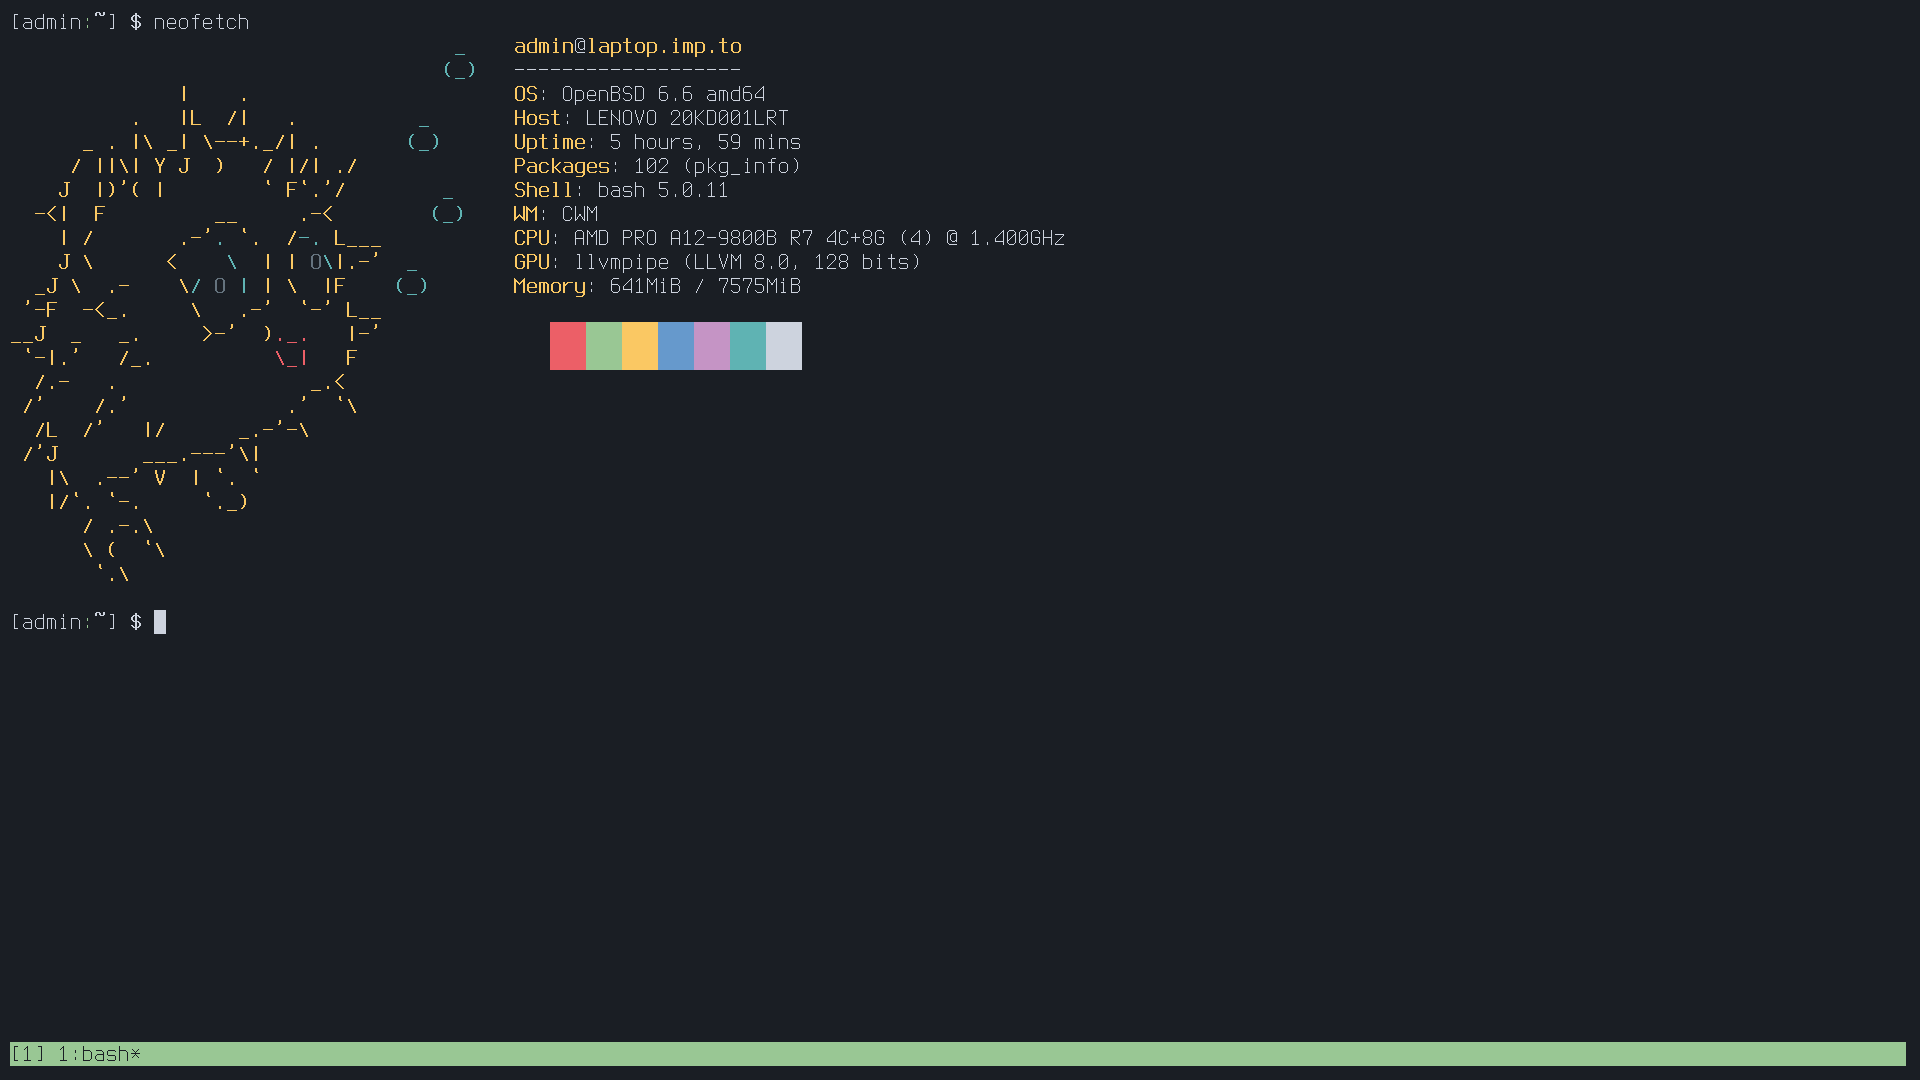
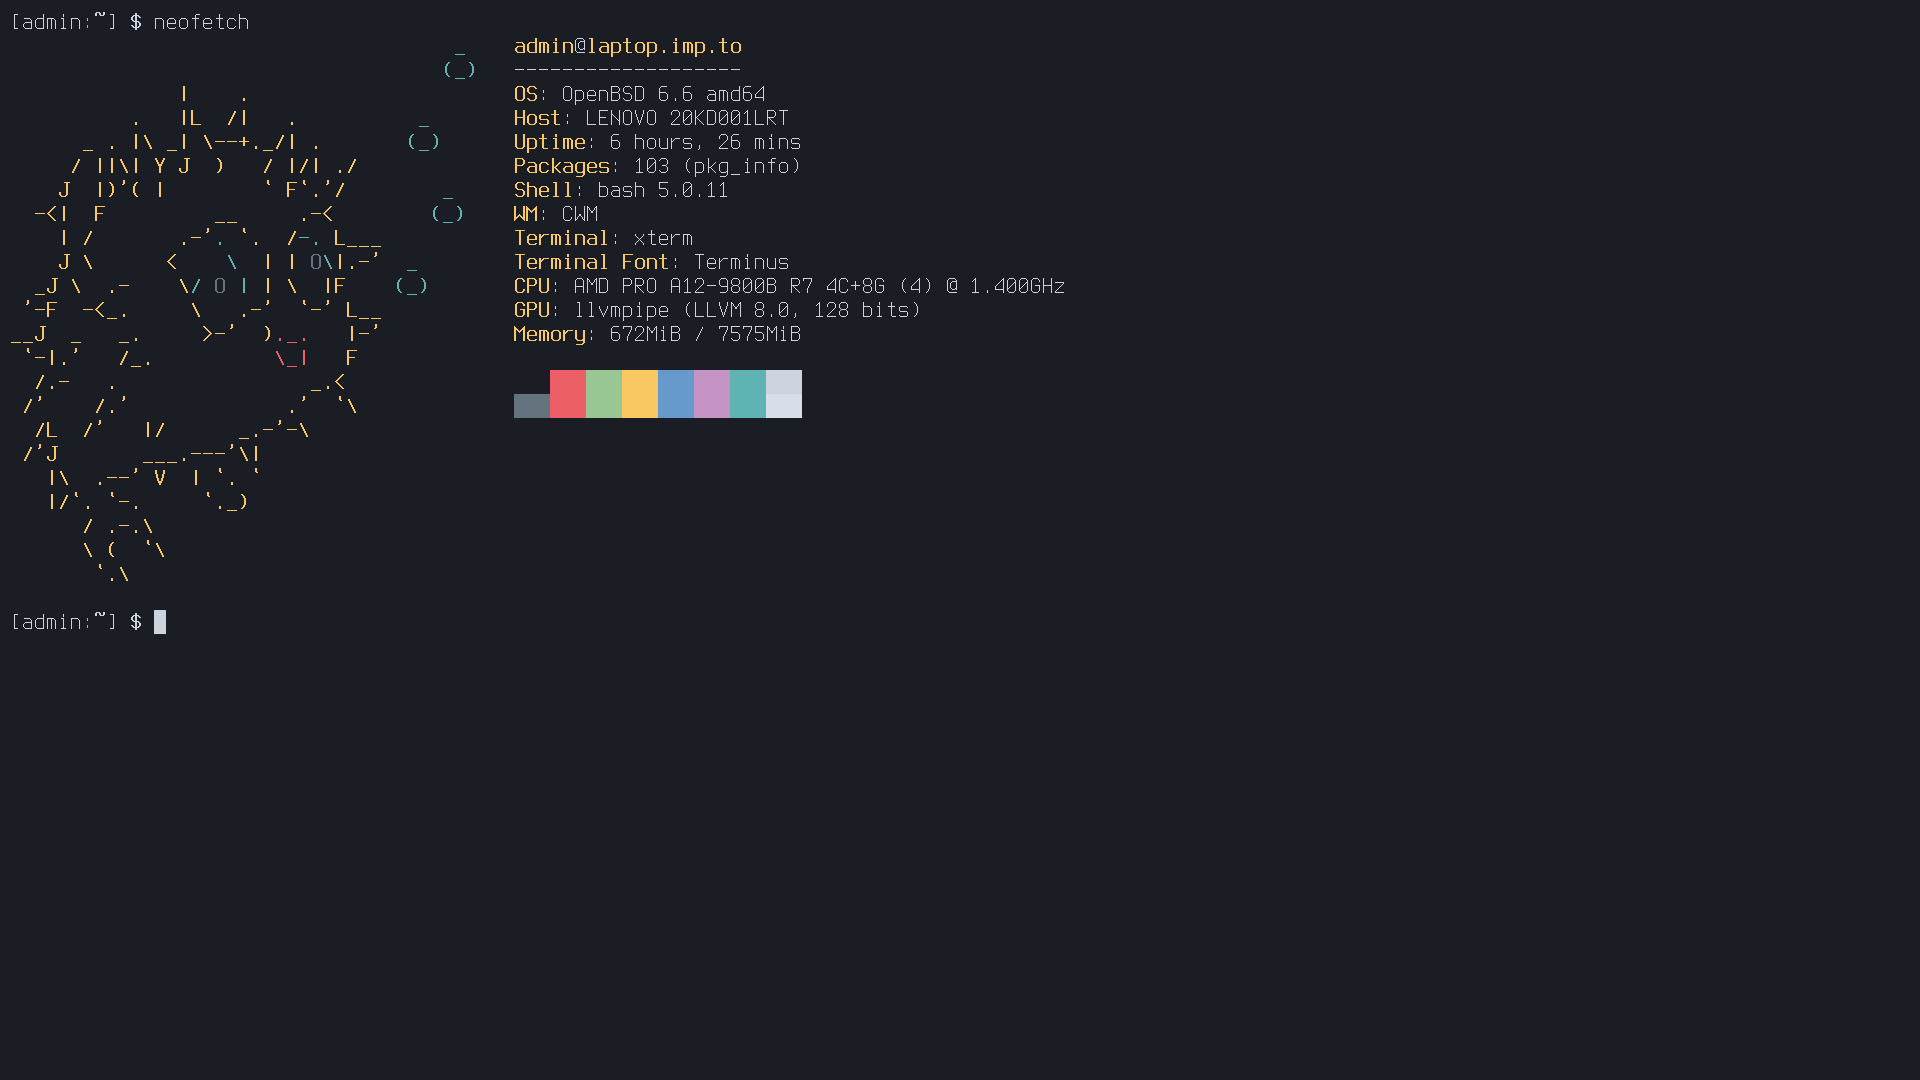
updated with OpenBSD configs

Changed region(s): [[0.0, 0.9472, 1.0, 1.0], [0.25, 0.2139, 0.4375, 0.3972]]

diff --git a/README.md b/README.md
@@ -3,33 +3,35 @@
 ```shell
 $ tree .
 .
-├── bootstrap.sh
-├── dmenu
-│   └── config.h
-├── dwm
-│   ├── config.h
-│   └── dwm-noborder-6.2.diff
-├── fzf.install.sh
-├── liquidprompt.install.sh
-├── opam.init.sh
-├── README.md
-├── ssh
-│   └── config
-├── st
-│   ├── config.h
-│   ├── st-anysize-0.8.1.diff
-│   ├── st-boxdraw_v2-0.8.2.diff
-│   ├── st-clipboard-0.8.2.diff
-│   ├── st-font2-20190416-ba72400.diff
-│   └── st-xresources-20190105-3be4cf1.diff
-├── sublime.apt.install.sh
-├── sublime.conf
-├── thinkpad_A275.png
-├── tmux.conf
-├── xinitrc
-├── Xresources
-└── zshrc
+|-- README.md
+|-- Xresources
+|-- bootstrap_bsd.sh
+|-- bootstrap_suse.sh
+|-- cwmrc
+|-- dmenu
+|   `-- config.h
+|-- dwm
+|   |-- config.h
+|   `-- dwm-noborder-6.2.diff
+|-- fzf.install.sh
+|-- liquidprompt.install.sh
+|-- opam.init.sh
+|-- ssh
+|   `-- config
+|-- st
+|   |-- config.h
+|   |-- st-anysize-0.8.1.diff
+|   |-- st-boxdraw_v2-0.8.2.diff
+|   |-- st-clipboard-0.8.2.diff
+|   |-- st-font2-20190416-ba72400.diff
+|   `-- st-xresources-20190105-3be4cf1.diff
+|-- sublime.apt.install.sh
+|-- sublime.conf
+|-- thinkpad_A275.png
+|-- tmux.conf
+|-- xinitrc
+|-- xsession
+`-- zshrc
 
-4 directories, 22 files
-
+4 directories, 25 files
 ```
